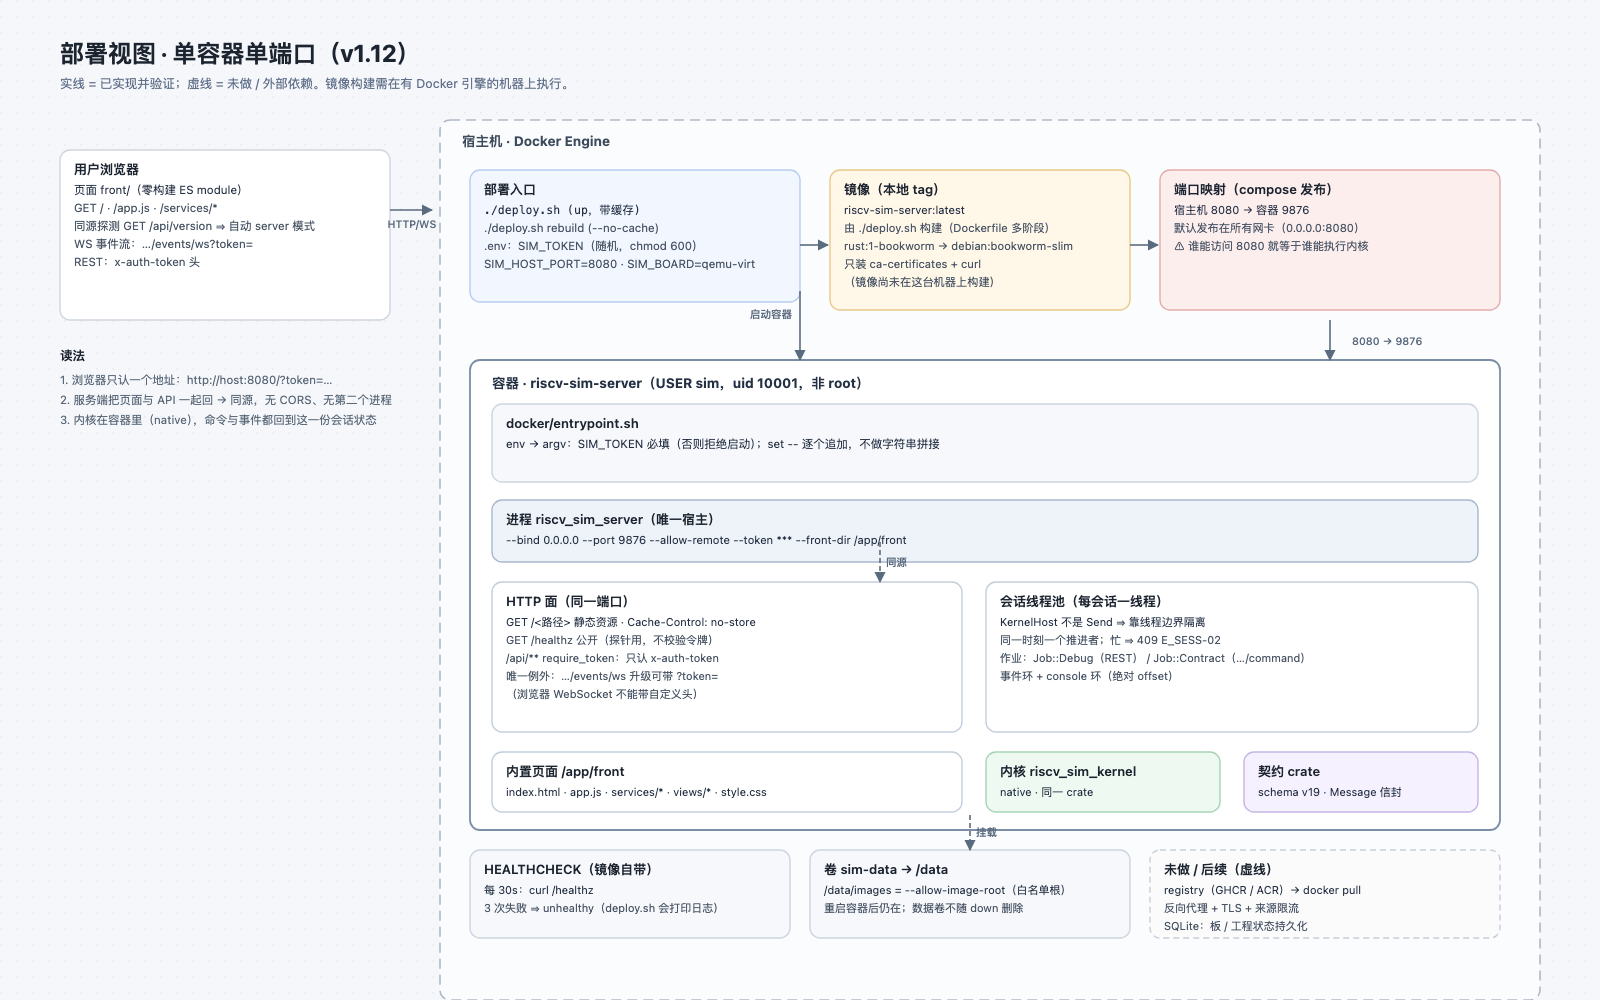
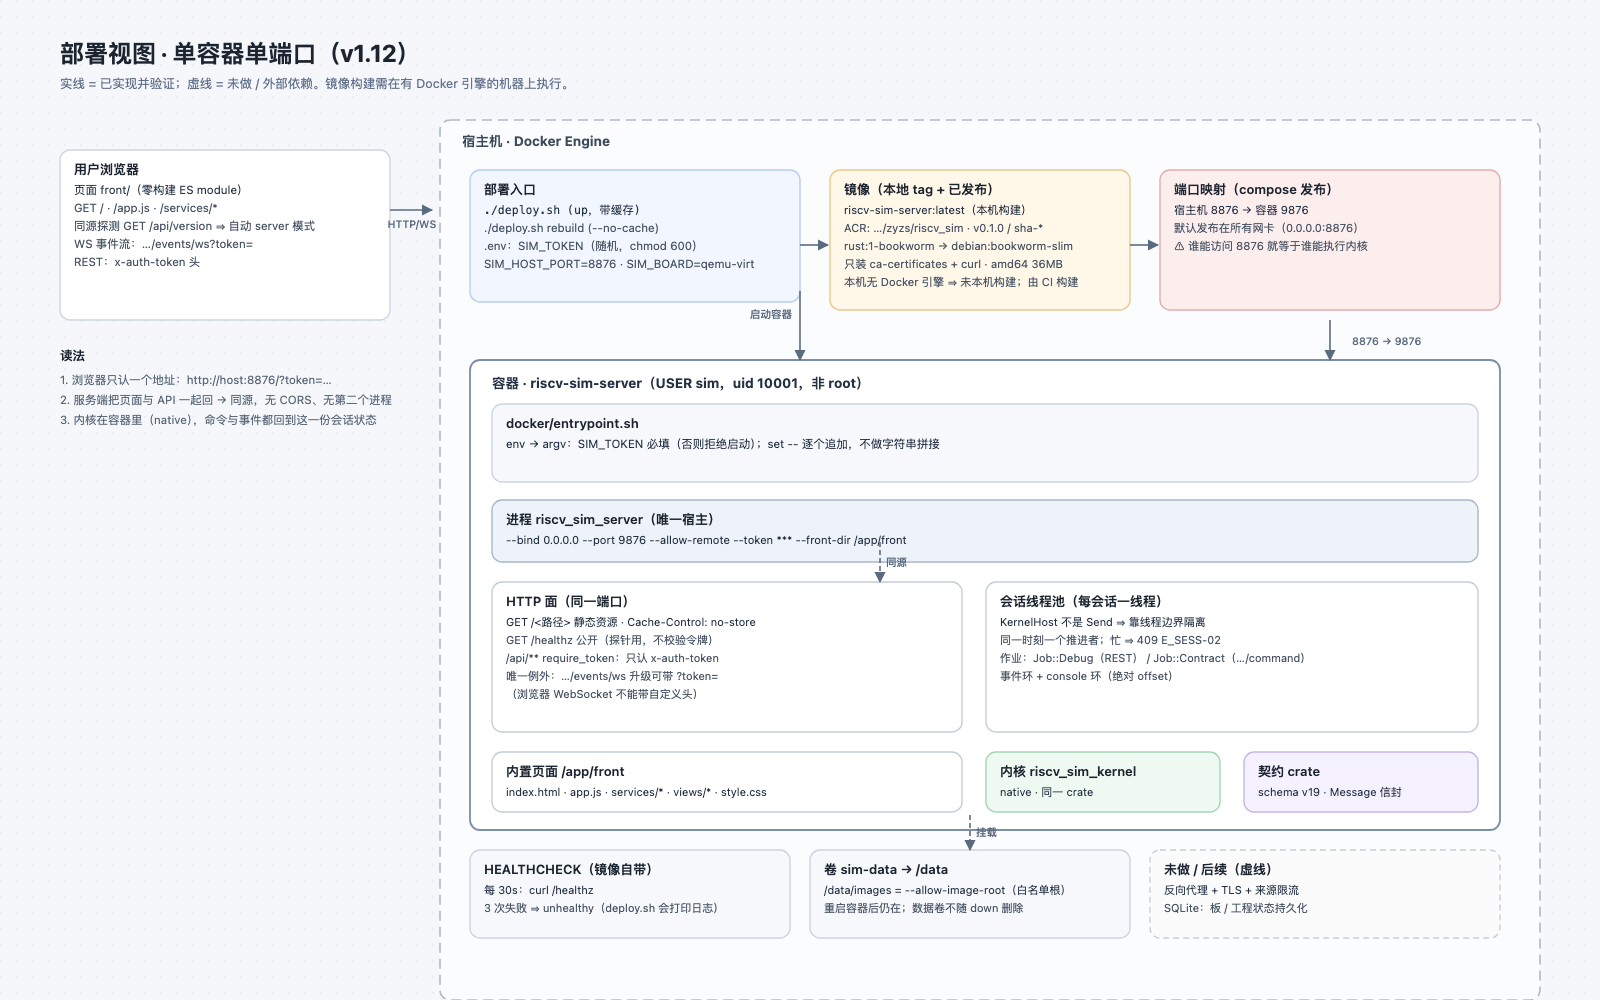
chore(deploy): 宿主端口默认 8080 → 8876（compose / deploy.sh / 文档 / 部署视图）
容器内仍是 9876，只换宿主机映射与文档口径。部署视图顺带订正两处已过时的说法
（「镜像尚未在这台机器上构建」→ 镜像已由 CI 发布到 ACR）。

diff --git a/tools/build_deploy_view.py b/tools/build_deploy_view.py
@@ -71,23 +71,23 @@ svg.append(card(470, 170, 330, 132, "部署入口", [
     "./deploy.sh            (up，带缓存)",
     "./deploy.sh rebuild    (--no-cache)",
     ".env：SIM_TOKEN（随机，chmod 600）",
-    "SIM_HOST_PORT=8080 · SIM_BOARD=qemu-virt",
+    "SIM_HOST_PORT=8876 · SIM_BOARD=qemu-virt",
 ], fill="#f2f7ff", stroke="#b8cdf0", mono_lines=(0,))) 
 
 # 镜像
-svg.append(card(830, 170, 300, 140, "镜像（本地 tag）", [
-    "riscv-sim-server:latest",
-    "由 ./deploy.sh 构建（Dockerfile 多阶段）",
+svg.append(card(830, 170, 300, 140, "镜像（本地 tag + 已发布）", [
+    "riscv-sim-server:latest（本机构建）",
+    "ACR: …/zyzs/riscv_sim · v0.1.0 / sha-*",
     "rust:1-bookworm → debian:bookworm-slim",
-    "只装 ca-certificates + curl",
-    "（镜像尚未在这台机器上构建）",
+    "只装 ca-certificates + curl · amd64 36MB",
+    "本机无 Docker 引擎 ⇒ 未本机构建；由 CI 构建",
 ], fill="#fff7e8", stroke="#e8c98a", size=11.2))
 
 # 端口映射
 svg.append(card(1160, 170, 340, 140, "端口映射（compose 发布）", [
-    "宿主机 8080  →  容器 9876",
-    "默认发布在所有网卡（0.0.0.0:8080）",
-    "⚠ 谁能访问 8080 就等于谁能执行内核",
+    "宿主机 8876  →  容器 9876",
+    "默认发布在所有网卡（0.0.0.0:8876）",
+    "⚠ 谁能访问 8876 就等于谁能执行内核",
 ], fill="#fdeeee", stroke="#e3adad", size=11.2))
 
 # ---------------------------------------------------------------- 容器
@@ -143,7 +143,6 @@ svg.append(card(810, 850, 320, 88, "卷 sim-data → /data", [
     "重启容器后仍在；数据卷不随 down 删除",
 ], fill="#f6f8fb", stroke="#cdd5e0", size=11.0))
 svg.append(card(1150, 850, 350, 88, "未做 / 后续（虚线）", [
-    "registry（GHCR / ACR）→ docker pull",
     "反向代理 + TLS + 来源限流",
     "SQLite：板 / 工程状态持久化",
 ], fill="#fbfbfc", stroke="#c8ced8", dash="6 4", size=11.0))
@@ -152,7 +151,7 @@ svg.append(card(1150, 850, 350, 88, "未做 / 后续（虚线）", [
 svg.append(arrow(390, 210, 432, 210, "HTTP/WS", lx=412, ly=228, anchor="middle"))
 svg.append(arrow(800, 245, 828, 245))
 svg.append(arrow(1130, 245, 1158, 245))
-svg.append(arrow(1330, 320, 1330, 360, "8080 → 9876", lx=1352, ly=345, anchor="start"))
+svg.append(arrow(1330, 320, 1330, 360, "8876 → 9876", lx=1352, ly=345, anchor="start"))
 svg.append(arrow(800, 291, 800, 360, None))
 svg.append(text(792, 318, "启动容器", 10.5, 500, "#5b6b7f", anchor="end"))
 svg.append(arrow(970, 815, 970, 850, None, dash="5 3"))
@@ -162,7 +161,7 @@ svg.append(text(886, 566, "同源", 10.5, 500, "#5b6b7f"))
 
 # 图例
 svg.append(text(60, 360, "读法", 12.5, 700))
-svg.append(text(60, 384, "1. 浏览器只认一个地址：http://host:8080/?token=…", 11.5, 400, "#5a6878"))
+svg.append(text(60, 384, "1. 浏览器只认一个地址：http://host:8876/?token=…", 11.5, 400, "#5a6878"))
 svg.append(text(60, 404, "2. 服务端把页面与 API 一起回 → 同源，无 CORS、无第二个进程", 11.5, 400, "#5a6878"))
 svg.append(text(60, 424, "3. 内核在容器里（native），命令与事件都回到这一份会话状态", 11.5, 400, "#5a6878"))
 

diff --git a/docs/USER_GUIDE.md b/docs/USER_GUIDE.md
@@ -84,12 +84,12 @@ python3 tools/serve-front.py
 它会做四件事：生成 `.env`（权限 `600`，里面是随机令牌）→ 构建镜像 → `up -d` → 轮询 `HEALTHCHECK` 直到 `healthy` → 打印带令牌的地址：
 
 ```
-http://localhost:8080/?token=<随机生成的令牌>
+http://localhost:8876/?token=<随机生成的令牌>
 ```
 
 常用子命令：`./deploy.sh rebuild`（改了代码/前端后重建）、`down`（停，数据卷保留）、`logs`、`ps`。
 
-整张图在 [`docs/architecture/deploy-view.svg`](./architecture/deploy-view.svg)（同名 `.png` 供直接看）：浏览器 → 宿主 `8080` → 容器 `9876` → 进程（静态托管 / API / 会话线程 / 内核），以及卷与健康检查的位置。
+整张图在 [`docs/architecture/deploy-view.svg`](./architecture/deploy-view.svg)（同名 `.png` 供直接看）：浏览器 → 宿主 `8876` → 容器 `9876` → 进程（静态托管 / API / 会话线程 / 内核），以及卷与健康检查的位置。
 
 几个必须知道的点：
 
@@ -98,7 +98,7 @@ http://localhost:8080/?token=<随机生成的令牌>
 - **镜像里默认没有 WASM 内核**：容器形态是「内核在容器里（native）」；要在容器里也能离线跑本地 Worker 模式，先在本机构建 `tools/build-wasm.sh`，再 `./deploy.sh rebuild`（`front/assets/pkg` 会被拷进镜像）。
 - **数据卷 `sim-data`**：挂在 `/data`，`SIM_IMAGE_ROOT=/data/images` ⇒ 放进这个目录的 `.elf` / `.bin` 可以用 `{"path": "...}` 装载（路径白名单就是它）。
 - **换端口**：`.env` 里改 `SIM_HOST_PORT`（容器内始终 9876）。
-- **对外暴露的风险**：`8080` 默认发布在宿主所有网卡上 ⇒ 令牌等于「谁能执行这个内核」。放到公网前，建议前面再套一层反向代理 + TLS，并限制来源。
+- **对外暴露的风险**：`8876` 默认发布在宿主所有网卡上 ⇒ 令牌等于「谁能执行这个内核」。放到公网前，建议前面再套一层反向代理 + TLS，并限制来源。
 
 ### 2.6 用别人构建好的镜像（ACR + CI）
 
@@ -139,15 +139,15 @@ TOKEN=$(openssl rand -hex 24)
 docker run -d --name riscv-sim \
   --restart unless-stopped \
   --security-opt no-new-privileges:true \
-  -p 8080:9876 \
+  -p 8876:9876 \
   -e SIM_TOKEN="$TOKEN" \
   -e SIM_BOARD=qemu-virt \
   -v riscv-sim-data:/data \
   crpi-d990qy21vgojj2m7.cn-heyuan.personal.cr.aliyuncs.com/zyzs/riscv_sim@sha256:375f75db7016b250ee715bdc7b5e617cb022b93b28998833327a5c0d98dcd0bf
-echo "http://<host>:8080/?token=$TOKEN"
+echo "http://<host>:8876/?token=$TOKEN"
 ```
 
-参数逐条对着 `compose.yml`：`-p 8080:9876`（宿主 8080 → 容器内 9876）、`-e SIM_TOKEN`（**必填**，没它不启动）、`-v /data`（放 `.elf`/`.bin` 的镜像目录）、`no-new-privileges` 与 `--restart` 与编排里同值。`SIM_FRONT_DIR=/app/front`、`SIM_IMAGE_ROOT=/data/images` 以及各项配额已经写进镜像 `ENV`，不用再传。
+参数逐条对着 `compose.yml`：`-p 8876:9876`（宿主 8876 → 容器内 9876）、`-e SIM_TOKEN`（**必填**，没它不启动）、`-v /data`（放 `.elf`/`.bin` 的镜像目录）、`no-new-privileges` 与 `--restart` 与编排里同值。`SIM_FRONT_DIR=/app/front`、`SIM_IMAGE_ROOT=/data/images` 以及各项配额已经写进镜像 `ENV`，不用再传。
 
 用**摘要**（`@sha256:...`）而不是 tag：`latest` 会漂，`v0.1.0` 这种 tag 也可以被覆盖，只有摘要不可变。
 
